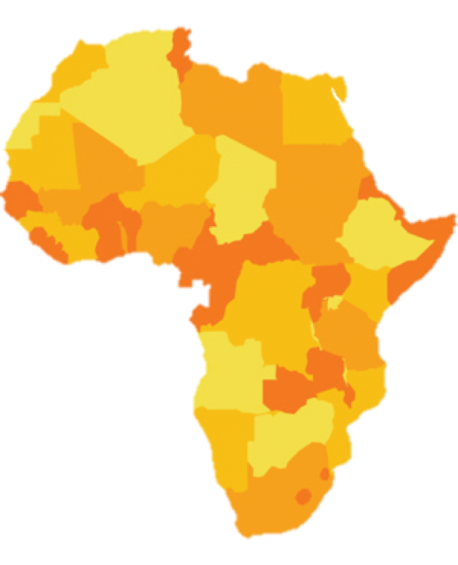
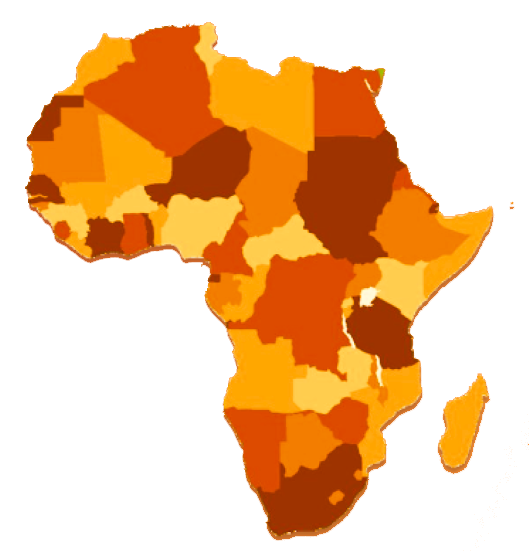
Africa Map Changes

diff --git a/src/components/LandingPage.js b/src/components/LandingPage.js
@@ -2,7 +2,7 @@ import React from "react"
 import AppAppBar from "./AppAppBar";
 import backgroundSVG from '../assets/img/Home.svg';
 import BonfireLogo from '../assets/img/BonfireLogo.png';
-import Africa from '../assets/img/Africa_2.png'
+import Africa from '../assets/img/Africa.png'
 import { Link } from 'react-router-dom';
 import Button from "../ui-components/CustomButtons/Button.js";
 import './LandingPage.css';
@@ -28,6 +28,7 @@ function LandingPage() {
         </div>
         <div className="heading-description">   
             <p>With Bonfire, you can connect, and swap skills with people of African culture. Learn about Africa, and more.</p>
+            
         </div>
         <div className="two-buttons">
             <Link style={{textDecoration: 'none'}} to="/login"><Button className="login-button">LOGIN</Button></Link>

diff --git a/src/components/LandingPage.css b/src/components/LandingPage.css
@@ -4,8 +4,8 @@
   }
 
 .bonfire-logo-heading{
-    padding-top: 170px;
-    padding-left: 100px;
+    padding-top: 270px;
+    padding-left: 85px;
     text-align: center;
     align-items: center !important;
     
@@ -20,6 +20,8 @@
     padding-top: 15px;
     padding-left: 18px;
     margin-left: 35px;
+    padding-bottom: 10px;
+    line-height: 15px;
 }
 
 .africa-map{
@@ -29,8 +31,8 @@
 .africa-pic{
     height: 410px;
     width: 410px;
-    margin-top: 170px;
-    margin-left: 155px;
+    margin-top: 220px;
+    margin-left: 240px;
     background-color: transparent;
 }
 
